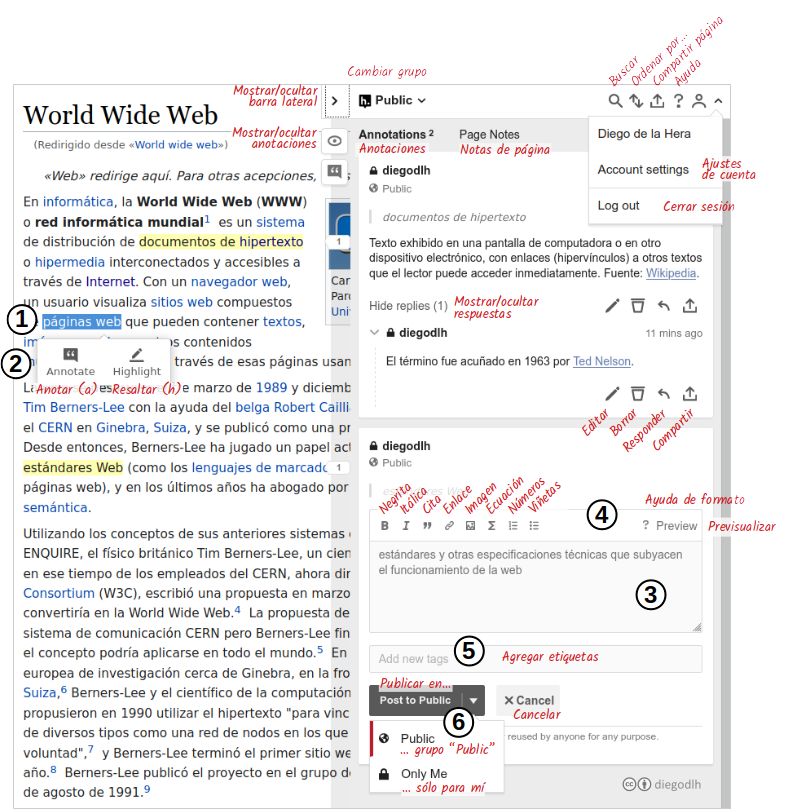
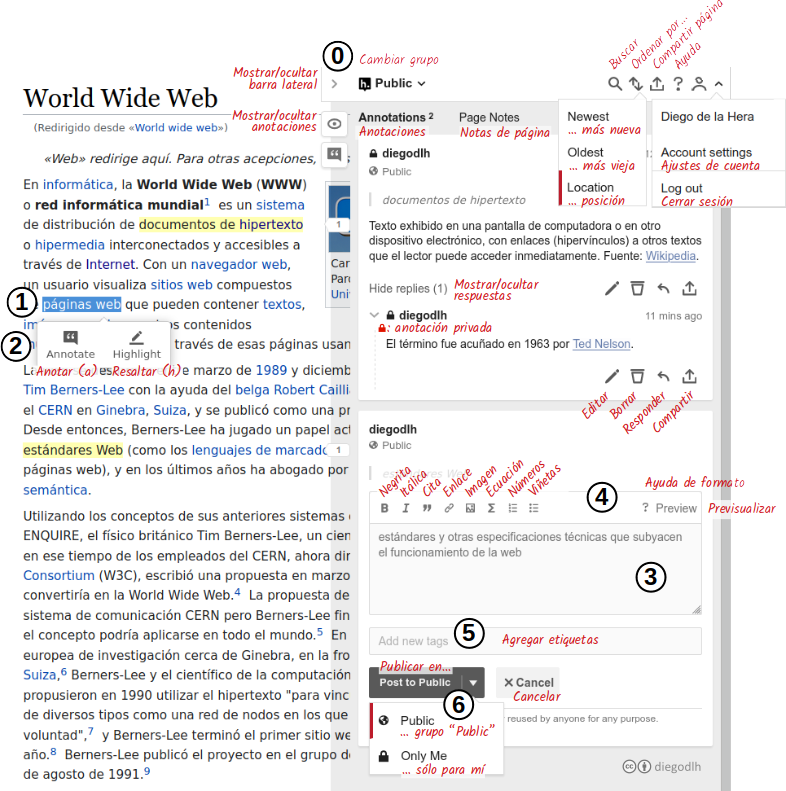
Actualizar post

Changed region(s): [[0.0, 0.0, 1.0, 1.0], [0.9771, 0.2427, 1.0, 0.2731]]

diff --git a/_posts/2020-06-13-Anotar-con-Hypothesis.md b/_posts/2020-06-13-Anotar-con-Hypothesis.md
@@ -1,6 +1,7 @@
 ---
 layout: post
-title: Anotación web con Hypothesis: primeros pasos
+title: "Anotación web con Hypothesis: primeros pasos"
+author: Diego de la Hera
 ---
 
 Seguí los pasos 1 a 6 a continuación para anotar la web con [Hypothesis](https://web.hypothes.is/).
@@ -13,9 +14,17 @@ Seguí los pasos 1 a 6 a continuación para anotar la web con [Hypothesis](https
 
 ![captura de la barra lateral, pasos básicos y traducciones]({{ site.baseurl }}/images/barra_lateral.png)
 
+{:start="0"}
+0. Antes de empezar, asegurate de estar anotando en el grupo de anotación correcto.
 1. Seleccioná la parte del texto que querés anotar.
 2. Elegí Anotar o Resaltar.
-3. Si elegiste Anotar, escribí el contenido de tu anotación acá.
+
+Si elegiste Resaltar, ¡listo!. Si elegiste Anotar, seguí:
+
+{:start="3"}
+3. Escribí el contenido de tu anotación acá.
 4. Podés usar la barra de formato para dar formato a tu texto.
 5. Si querés, agregá etiquetas para clasificar tus anotaciones. Insertá una coma o presioná Enter a continuación de cada etiqueta.
-6. Finalmente pulsá Post para publicar tu anotación. Usá el menú desplegable para elegir entre publicar en el grupo actual (en este caso Post to Public) o publicar en forma privada sólo para vos (Post to Only me).
+6. Finalmente pulsá Post para publicar tu anotación. Usá el menú desplegable para elegir entre:
+* publicar para el grupo actual (en este caso Post to Public), o
+* publicar de forma privada sólo para vos (Post to Only me).
